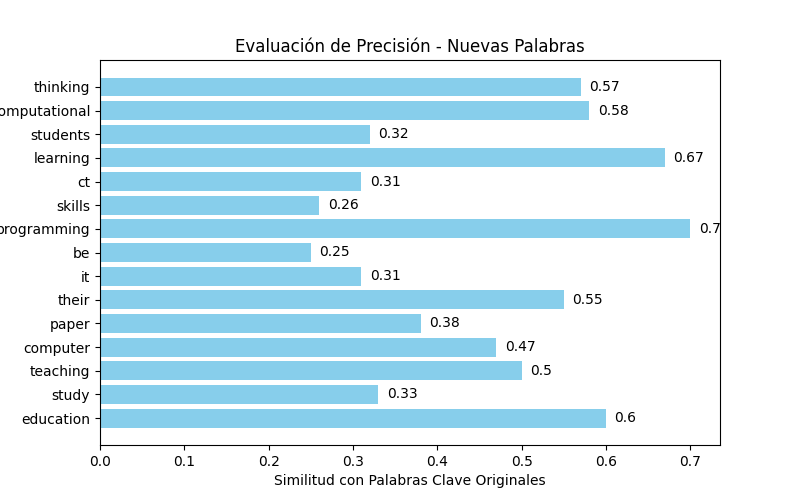
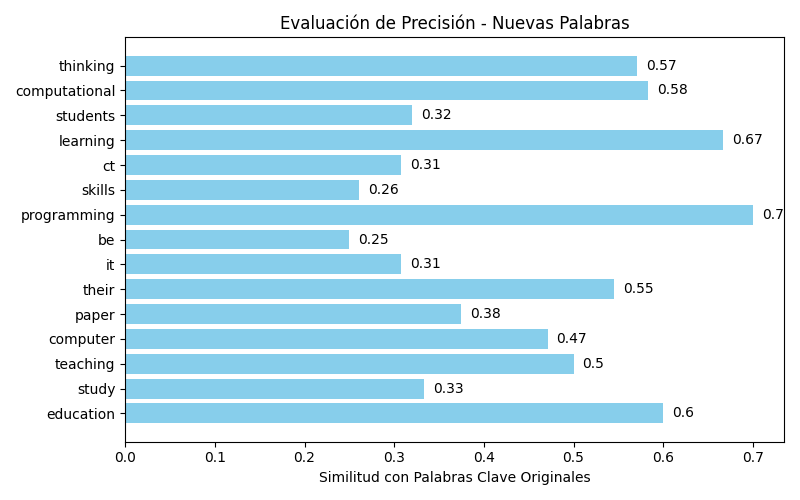
interfaz req 3 - completed

Changed region(s): [[0.0, 0.03, 0.9688, 0.99], [0.9062, 0.9, 0.9688, 0.93]]

diff --git a/Codigo/Interfaces/categoria.py b/Codigo/Interfaces/categoria.py
@@ -1,0 +1,127 @@
+import streamlit as st
+import os
+import pandas as pd
+import sys
+
+# Agregar la carpeta raíz al sys.path
+sys.path.append(os.path.abspath(os.path.join(os.path.dirname(__file__), "..")))
+
+
+from Requisito3.analizar_abstracts import load_ris, count_keywords, extract_new_terms
+from Requisito3.palabras import keywords as predefined_keywords
+from Requisito3.interpretacion_visual import plot_bar_chart, plot_precision_results, ruta_graficos
+from difflib import SequenceMatcher
+
+# Ajusta si tu proyecto usa otra ruta por defecto (la misma que en las otras vistas)
+DEFAULT_RIS_PATH = "C:/2025-2/day/Proyecto Final-K/Proyecto Final/Codigo/Requisito1/articulos_unicos.ris"
+
+def evaluate_precision(new_terms, keywords_flat):
+    """Evalúa similitud textual entre nuevas y conocidas (return lista dicts)."""
+    results = []
+    for word, freq in new_terms:
+        similarities = [SequenceMatcher(None, word.lower(), kw.lower()).ratio() for kw in keywords_flat]
+        precision = max(similarities) if similarities else 0.0
+        results.append({"Palabra": word, "Frecuencia": int(freq), "Similitud": round(precision, 3)})
+    return results
+
+def asegurarse_ruta(ruta):
+    if not os.path.exists(ruta):
+        os.makedirs(ruta, exist_ok=True)
+
+def categoria_view():
+    st.title("🧭 Requerimiento 3 — Frecuencia y descubrimiento de palabras asociadas")
+    st.write("Categoría: **Concepts of Generative AI in Education** y sus palabras asociadas. Se analizarán los abstracts del archivo por defecto.")
+
+    # Comprobar archivo por defecto
+    if not os.path.exists(DEFAULT_RIS_PATH):
+        st.error(f"No se encontró el archivo por defecto:\n{DEFAULT_RIS_PATH}")
+        if st.button("🏠 Volver al Home"):
+            st.session_state.current_view = "home"
+        return
+
+    # Cargar abstracts
+    abstracts = load_ris(DEFAULT_RIS_PATH)
+    n = len(abstracts)
+    st.markdown(f"**Abstracts encontrados:** {n}")
+    if n == 0:
+        st.warning("No se encontraron abstracts en el archivo RIS. Revisa el archivo.")
+        return
+
+    # Botón para ejecutar todo el flujo
+    if st.button("▶ Ejecutar análisis de palabras"):
+        with st.spinner("Analizando abstracts y generando resultados..."):
+            asegurarse_ruta(ruta_graficos)
+
+            # 1) Contar las palabras clave predefinidas
+            keyword_data, keyword_counts = count_keywords(abstracts, predefined_keywords)
+
+            # 2) Extraer nuevas palabras asociadas (top 15)
+            new_terms = extract_new_terms(abstracts, predefined_keywords, top_n=15)
+
+            # 3) Evaluar precisión: comparar nuevas palabras con todas las conocidas
+            known_keywords_flat = [
+                syn.lower()
+                for cat in predefined_keywords.values()
+                for term_syns in cat.values()
+                for syn in term_syns
+            ]
+            precision_results = evaluate_precision(new_terms, known_keywords_flat)
+
+            # 4) Guardar resultados en Excel
+            df_keywords = pd.DataFrame(keyword_data)
+            df_new = pd.DataFrame(new_terms, columns=["Término", "Frecuencia"])
+            df_precision = pd.DataFrame(precision_results)
+
+            out_dir = ruta_graficos
+            asegurarse_ruta(out_dir)
+            out_keywords = os.path.join(out_dir, "frecuencia_keywords_categorizadas.xlsx")
+            out_new = os.path.join(out_dir, "nuevas_palabras.xlsx")
+            out_precision = os.path.join(out_dir, "precision_nuevas_palabras.xlsx")
+
+            df_keywords.to_excel(out_keywords, index=False)
+            df_new.to_excel(out_new, index=False)
+            df_precision.to_excel(out_precision, index=False)
+
+            st.success("Análisis completado y guardado ✅")
+            st.markdown(f"- Archivo frecuencias: `{out_keywords}`")
+            st.markdown(f"- Nuevas palabras: `{out_new}`")
+            st.markdown(f"- Precisión: `{out_precision}`")
+
+            # 5) Mostrar tabla de frecuencias (top)
+            st.subheader("Frecuencia — palabras predefinidas (Top)")
+            if keyword_counts:
+                df_counts = pd.DataFrame(sorted(keyword_counts.items(), key=lambda x: x[1], reverse=True), columns=["Término", "Frecuencia"])
+                st.dataframe(df_counts)
+            else:
+                st.write("No se detectaron coincidencias con las palabras predefinidas en los abstracts.")
+
+            # 6) Mostrar nuevas palabras sugeridas
+            st.subheader("Nuevas palabras asociadas (top 15)")
+            if new_terms:
+                st.table(pd.DataFrame(new_terms, columns=["Término", "Frecuencia"]))
+            else:
+                st.write("No se encontraron nuevas palabras relevantes.")
+
+            # 7) Mostrar y guardar gráficos (usando funciones que retornan la ruta)
+            try:
+                bar_path = plot_bar_chart(keyword_counts, out_path=os.path.join(out_dir, "frecuencia_palabras_clave.png"))
+                st.image(bar_path, caption="Frecuencia palabras clave")
+            except Exception as e:
+                st.write(f"No se pudo generar el gráfico de barras: {e}")
+
+            try:
+                precision_path = plot_precision_results(precision_results, out_path=os.path.join(out_dir, "precision_nuevas_palabras.png"))
+                st.image(precision_path, caption="Precisión nuevas palabras")
+            except Exception as e:
+                st.write(f"No se pudo generar el gráfico de precisión: {e}")
+
+            # 8) Ofrecer descargas
+            with open(out_keywords, "rb") as f:
+                st.download_button("⬇ Descargar frecuencias (Excel)", data=f, file_name=os.path.basename(out_keywords))
+            with open(out_new, "rb") as f:
+                st.download_button("⬇ Descargar nuevas palabras (Excel)", data=f, file_name=os.path.basename(out_new))
+            with open(out_precision, "rb") as f:
+                st.download_button("⬇ Descargar evaluación (Excel)", data=f, file_name=os.path.basename(out_precision))
+
+    if st.button("🏠 Volver al Home"):
+        st.session_state.current_view = "home"

diff --git a/Codigo/Requisito3/interpretacion_visual.py b/Codigo/Requisito3/interpretacion_visual.py
@@ -17,41 +17,54 @@ import matplotlib.patches as mpatches
 ruta_graficos = "C:/2025-2/day/Proyecto Final-K/Proyecto Final/Datos/Requerimiento3"
 
 # Paso 4: Generar una gráfica de barras
-def plot_bar_chart(keyword_counts):
-
+def plot_bar_chart(keyword_counts, out_path=None):
+    """
+    Guarda un gráfico de barras con las frecuencias y devuelve la ruta del archivo guardado.
+    Si out_path es None, usa ruta_graficos/frecuencia_palabras_clave.png
+    """
     top_10 = sorted(keyword_counts.items(), key=lambda x: x[1], reverse=True)[:20]
-    # Separar claves y valores
     keywords = [item[0] for item in top_10]
     counts = [item[1] for item in top_10]
 
     plt.figure(figsize=(12, 6))
     plt.barh(keywords, counts, color="skyblue")
 
-    #Agregar etiquetas al final de la barra
     for i, count in enumerate(counts):
         plt.text(count + 0.5, i, str(count), va='center', fontsize=10)
 
     plt.xlabel("Frecuencia")
     plt.title("Top 20 - Frecuencia de Palabras Clave")
     plt.tight_layout()
-    plt.savefig(os.path.join(ruta_graficos, "frecuencia_palabras_clave.png"))
+
+    if out_path is None:
+        out_path = os.path.join(ruta_graficos, "frecuencia_palabras_clave.png")
+    plt.savefig(out_path)
     plt.close()
+    return out_path
 
 
-def plot_precision_results(precision_results):
+def plot_precision_results(precision_results, out_path=None):
+    """
+    Genera y guarda la gráfica de precisión (similitud) de nuevas palabras.
+    Devuelve la ruta del archivo guardado.
+    """
     df = pd.DataFrame(precision_results)
     plt.figure(figsize=(8, 5))
     plt.barh(df["Palabra"], df["Similitud"], color="skyblue")
 
-    #Agregar etiquetas al final de la barra
     for i, sim in enumerate(df["Similitud"]):
         plt.text(sim + 0.01, i, str(round(sim, 2)), va='center', fontsize=10)
 
     plt.xlabel("Similitud con Palabras Clave Originales")
     plt.title("Evaluación de Precisión - Nuevas Palabras")
     plt.gca().invert_yaxis()
-    plt.savefig(os.path.join(ruta_graficos, "precision_nuevas_palabras.png"))
+    plt.tight_layout()
+
+    if out_path is None:
+        out_path = os.path.join(ruta_graficos, "precision_nuevas_palabras.png")
+    plt.savefig(out_path)
     plt.close()
+    return out_path
 
 
 

diff --git a/Codigo/Interfaces/app.py b/Codigo/Interfaces/app.py
@@ -4,6 +4,7 @@ import streamlit as st
 from home import home_view
 from unificacion import unificacion_ris_view
 from similitud import similitud_view
+from categoria import categoria_view
 
 # Configuración inicial de la vista
 if "current_view" not in st.session_state:
@@ -16,3 +17,5 @@ if st.session_state.current_view == "unificacion":
     unificacion_ris_view()
 if st.session_state.current_view == "similitud":
     similitud_view()
+if st.session_state.current_view == "categoria":
+    categoria_view()

diff --git a/Codigo/Interfaces/home.py b/Codigo/Interfaces/home.py
@@ -14,3 +14,5 @@ def home_view():
         st.session_state.current_view = "unificacion"
     if st.button("Calcular similitud textual"):
         st.session_state.current_view = "similitud"
+    if st.button("Categoria y palabras asociadas"):
+        st.session_state.current_view = "categoria"
